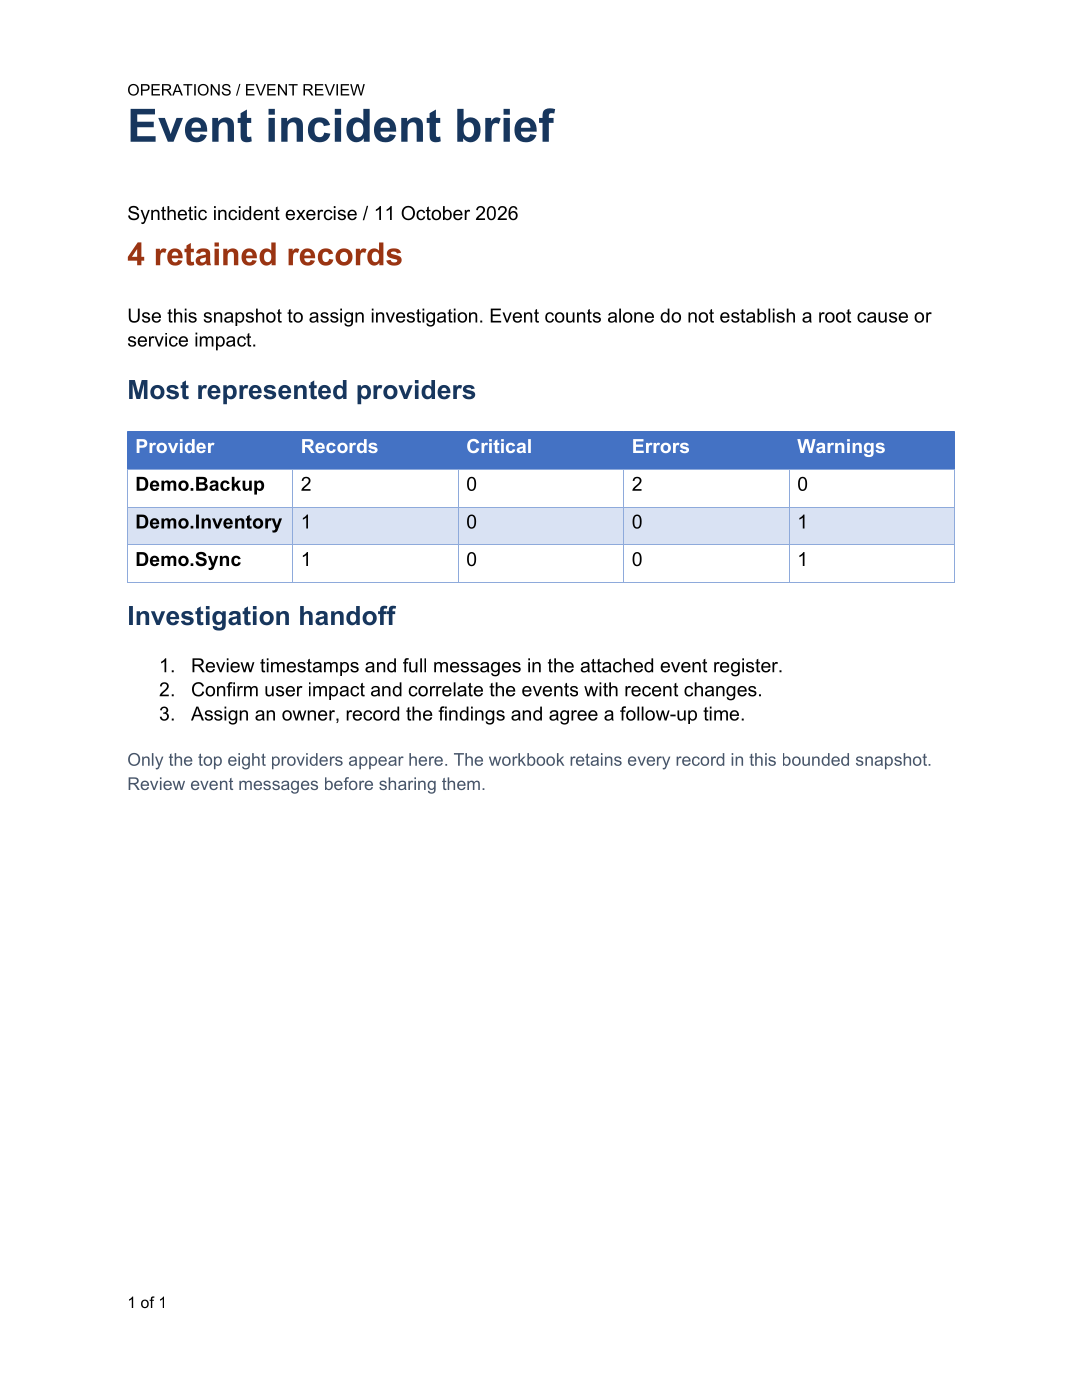
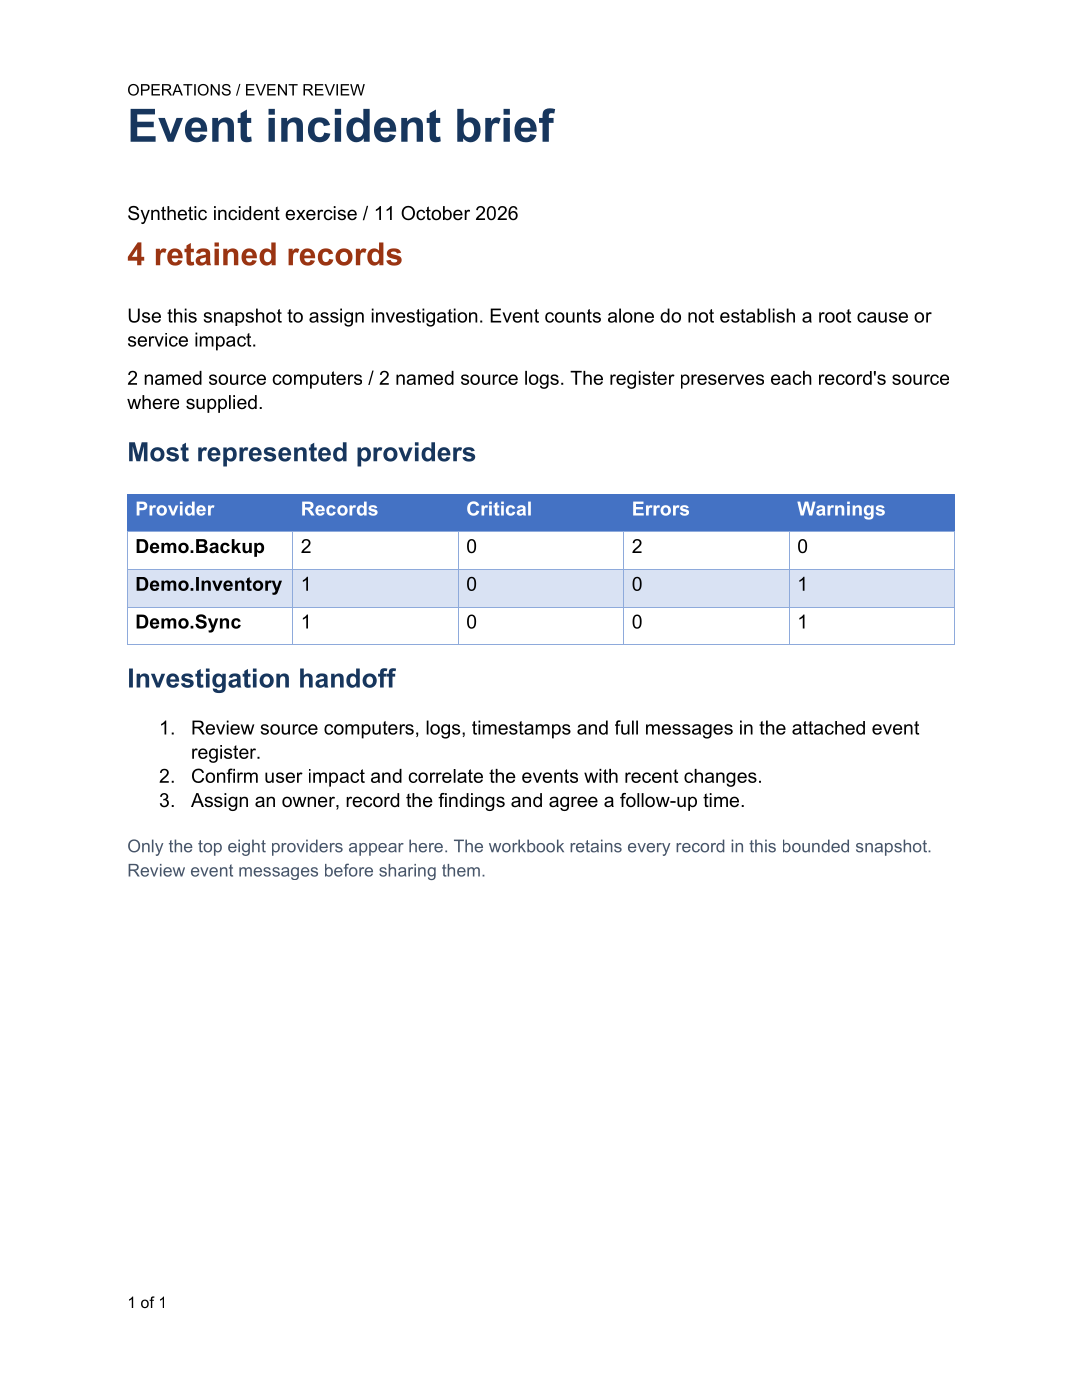
Refresh integration handoffs from validated source snapshots

Changed region(s): [[0.0915, 0.2457, 0.8845, 0.645]]

diff --git a/Website/content/docs/integrations/event-brief/index.md b/Website/content/docs/integrations/event-brief/index.md
@@ -17,7 +17,7 @@ Install-Module PSWriteOffice -Scope CurrentUser
 ./Examples/Integrations/Recipe-PSEventViewer-OfficeReport.ps1 -OutputDirectory ./Output/EventBrief
 ```
 
-Run from a PSWriteOffice checkout, or download the [complete script](/downloads/integrations/source/Recipe-PSEventViewer-OfficeReport.ps1). Its [source revision](https://github.com/EvotecIT/PSWriteOffice/blob/db029a8ee3fcb96227777894daaf8bbd7f94dab1/Examples/Integrations/Recipe-PSEventViewer-OfficeReport.ps1) matches these downloads.
+Run from a PSWriteOffice checkout, or download the [complete script](/downloads/integrations/source/Recipe-PSEventViewer-OfficeReport.ps1). Its [source revision](https://github.com/EvotecIT/PSWriteOffice/blob/3bad89a2230d4bdb970251e5e1c73065e044ac00/Examples/Integrations/Recipe-PSEventViewer-OfficeReport.ps1) matches these downloads.
 
 ## Use an existing snapshot or collect once
 
@@ -29,8 +29,8 @@ $events = @(Get-EVXEvent -LogName Application -Level 1,2,3 -TimePeriod Last24Hou
 
 Alternatively, use `-CollectLive -LogName Application -MaxEvents 100`. Live collection requires Windows, PSEventViewer 4.0.1 or later and access to the channel. PSEventViewer is maintained in [EventViewerX](https://github.com/EvotecIT/EventViewerX).
 
-![Native Excel preview of retained timestamps, providers and full event messages](/downloads/integrations/events/workbook.png)
+![Native Excel preview of retained timestamps, providers, source computers, logs and full event messages](/downloads/integrations/events/workbook.png)
 
-The brief shows the retained count and top eight providers with critical, error and warning counts. Excel keeps every retained record up to `MaxEvents`, including the full message and typed timestamp. `-Event @()` produces an explicit empty report. Counts describe this bounded snapshot; they do not establish root cause, service impact or the total size of a log. Review messages before sharing a live register.
+The brief shows the retained count and top eight providers with critical, error and warning counts. Excel keeps every retained record up to `MaxEvents`, including source computer and log where supplied, the full message and typed timestamp. Raw and typed `Get-EVXEvent` results are accepted; typed results use their original `SourceEvent` snapshot. `-Event @()` produces an explicit empty report. Counts describe this bounded snapshot; they do not establish root cause, service impact or the total size of a log. Review messages before sharing a live register.
 
 Use EventViewerX's `Show-EVXEvent` for its native reports. Choose this integration when the handoff also needs an editable Word brief and PDF, then prepare a [local email package](../report-email/).

diff --git a/Website/content/docs/integrations/supplier-review/index.md b/Website/content/docs/integrations/supplier-review/index.md
@@ -19,7 +19,7 @@ Install-Module PSParseHTML, PSWriteOffice -Scope CurrentUser
 ./Examples/Integrations/Recipe-HtmlSupplierReview.ps1 -OutputDirectory ./Output/SupplierReview
 ```
 
-Read the [complete script](https://github.com/EvotecIT/PSWriteOffice/blob/db029a8ee3fcb96227777894daaf8bbd7f94dab1/Examples/Integrations/Recipe-HtmlSupplierReview.ps1) and [sample HTML](https://github.com/EvotecIT/PSWriteOffice/blob/db029a8ee3fcb96227777894daaf8bbd7f94dab1/Examples/Integrations/Input/SupplierOffers.html). For a small standalone run, download the [script](/downloads/integrations/source/Recipe-HtmlSupplierReview.ps1) and save the [HTML input](/downloads/integrations/source/Input/SupplierOffers.html) as `Input/SupplierOffers.html` beside it.
+Read the [complete script](https://github.com/EvotecIT/PSWriteOffice/blob/3bad89a2230d4bdb970251e5e1c73065e044ac00/Examples/Integrations/Recipe-HtmlSupplierReview.ps1) and [sample HTML](https://github.com/EvotecIT/PSWriteOffice/blob/3bad89a2230d4bdb970251e5e1c73065e044ac00/Examples/Integrations/Input/SupplierOffers.html). For a small standalone run, download the [script](/downloads/integrations/source/Recipe-HtmlSupplierReview.ps1) and save the [HTML input](/downloads/integrations/source/Input/SupplierOffers.html) as `Input/SupplierOffers.html` beside it.
 
 ## Adapt the data
 

diff --git a/Website/content/docs/integrations/index.md b/Website/content/docs/integrations/index.md
@@ -14,4 +14,4 @@ Start with the input you already have. These examples pass ordinary objects and 
 
 Each page includes real generated files and the complete source that produced them. The downloads contain synthetic data. The recipes run with published modules and add no required dependencies to PSWriteOffice.
 
-Use the [integration guide](https://github.com/EvotecIT/PSWriteOffice/tree/db029a8ee3fcb96227777894daaf8bbd7f94dab1/Examples/Integrations) for module requirements and input contracts. The [download manifest](/downloads/integrations/manifest.json) records the source revision, module versions and file hashes.
+Use the [integration guide](https://github.com/EvotecIT/PSWriteOffice/tree/3bad89a2230d4bdb970251e5e1c73065e044ac00/Examples/Integrations) for module requirements and input contracts. The [download manifest](/downloads/integrations/manifest.json) records the source revision, module versions and file hashes.

diff --git a/Website/content/docs/integrations/report-email/index.md b/Website/content/docs/integrations/report-email/index.md
@@ -8,7 +8,7 @@ Prepare the message as a file so a reviewer can inspect recipients, text and att
 
 ![Generated service report with space between its heading, table and next action](/downloads/integrations/mail-default/preview.png)
 
-[Service PDF](/downloads/integrations/mail-default/Daily-Service-Report.pdf) · [Local EML package](/downloads/integrations/mail-default/ReportReview.eml) · [Complete script](https://github.com/EvotecIT/PSWriteOffice/blob/db029a8ee3fcb96227777894daaf8bbd7f94dab1/Examples/Integrations/Recipe-Mailozaurr-PdfDelivery.ps1)
+[Service PDF](/downloads/integrations/mail-default/Daily-Service-Report.pdf) · [Local EML package](/downloads/integrations/mail-default/ReportReview.eml) · [Complete script](https://github.com/EvotecIT/PSWriteOffice/blob/3bad89a2230d4bdb970251e5e1c73065e044ac00/Examples/Integrations/Recipe-Mailozaurr-PdfDelivery.ps1)
 
 ## Prepare your own attachments
 
